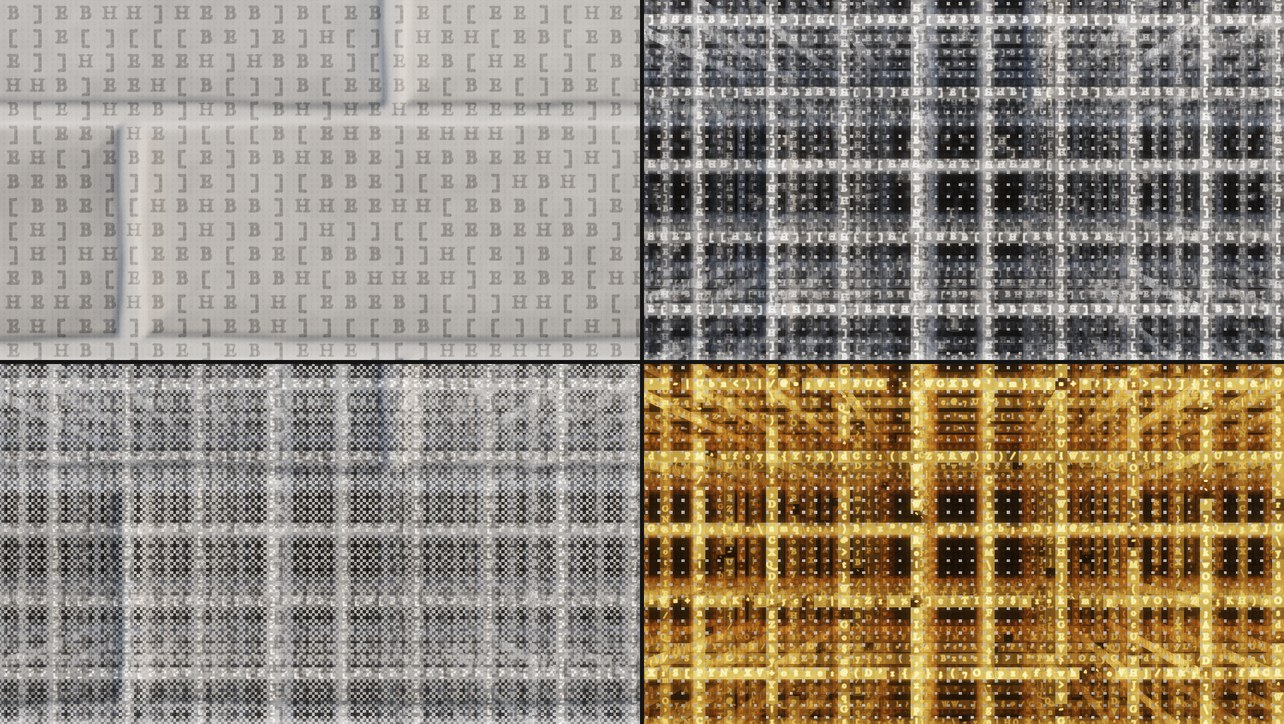
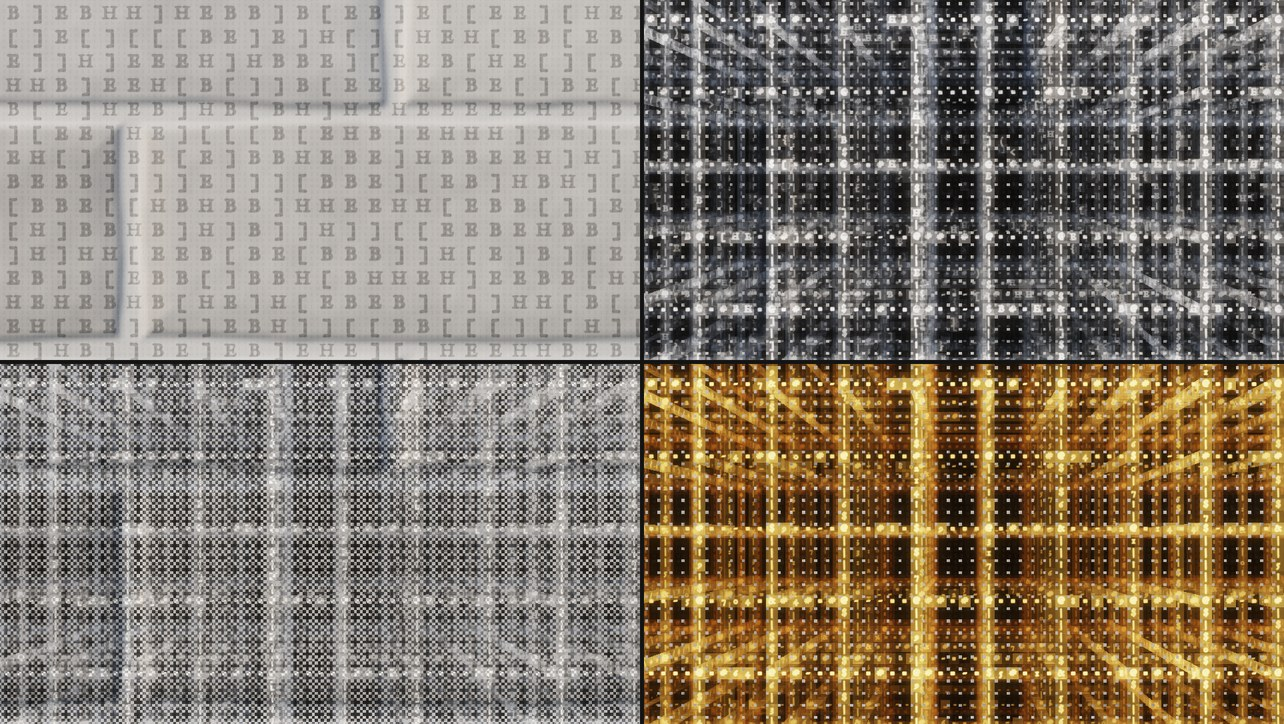
feat(looks): rule the lattice in every ASCII special character
At the owner's direction. Edges across the page are set in dashes, edges up it in
bars, edges running away in points, and crossings in the heavy marks, heavier for
the larger frames; one cell in six is one of the thing's own letters. All thirty-two
special characters have a place. Nothing outside the 95 printable characters is
used.

Claude-Session: https://claude.ai/code/session_01729CUtx9ecYqazyoA1zXTK

Changed region(s): [[0.0, 0.0, 1.0, 1.0]]

diff --git a/docs/DECISIONS.md b/docs/DECISIONS.md
@@ -14,6 +14,13 @@ own ray.
 **No line is drawn.** Only cells on the lattice's edges hold characters. Crossings are
 drawn brighter, since they are what the eye lines up into a frame.
 
+**The lattice is ruled in ASCII's special characters,** all thirty-two of them, chosen by
+what they suggest: dashes and tildes along edges across the page, bars and colons up it,
+points and commas along edges running away, and the heavy marks (`+ * # % & @ $`) at
+crossings, heavier for the larger frames. One cell in six is one of the thing's own
+letters. It stays inside the 95 printable characters: the atlas holds no others, and
+the rule that the world is written in them is the owner's to lift.
+
 **Depth is lit as depth:** dimmer and cooler the deeper it lies (redder in the source),
 with a slow pulse travelling inward.
 
